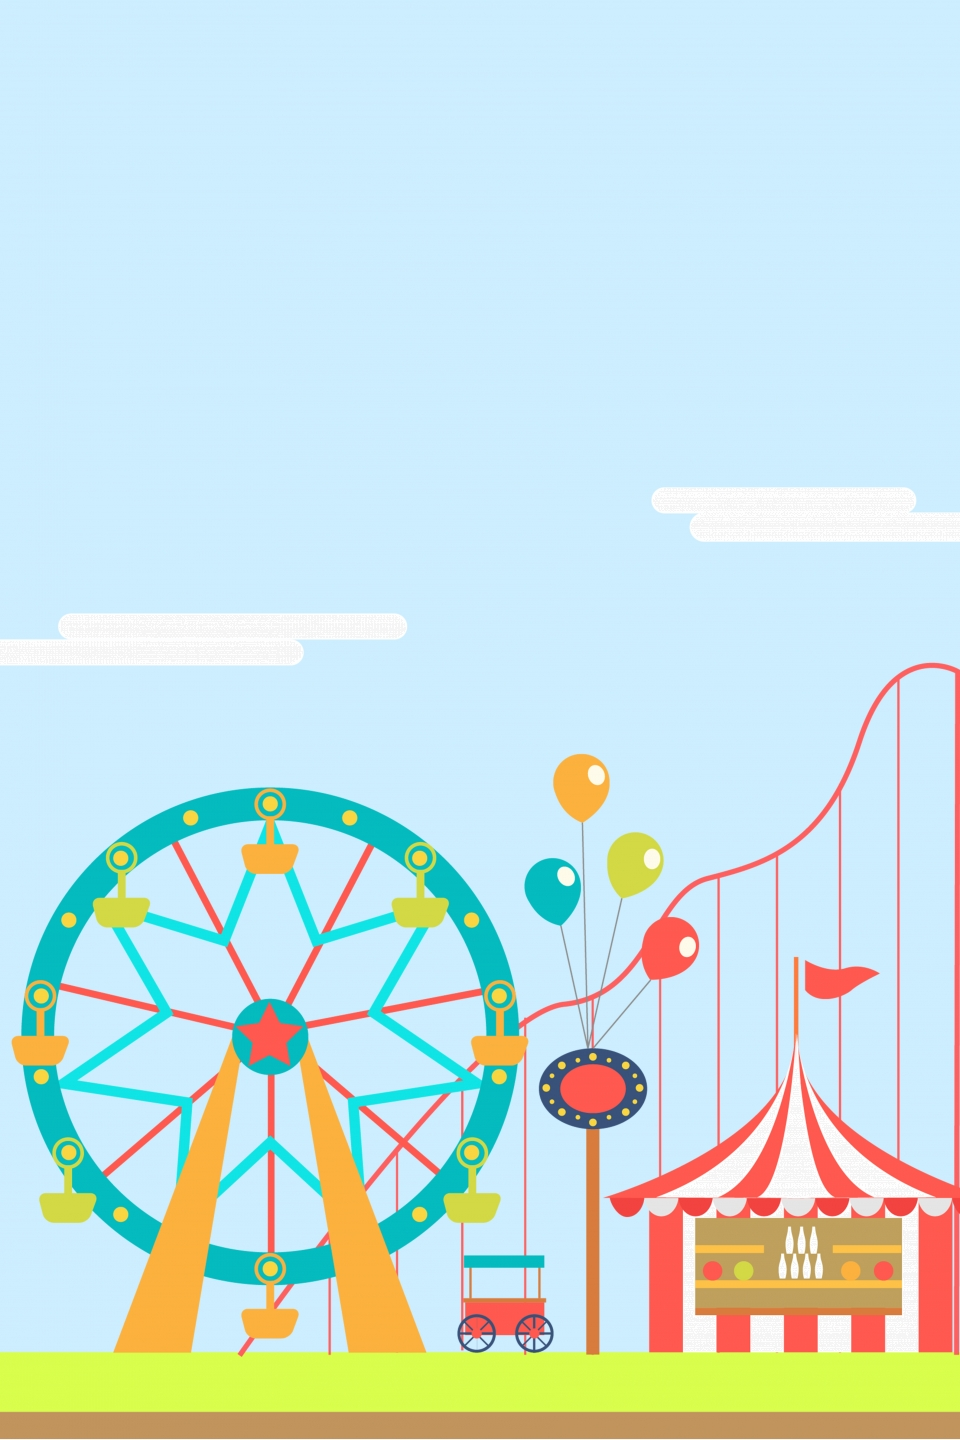
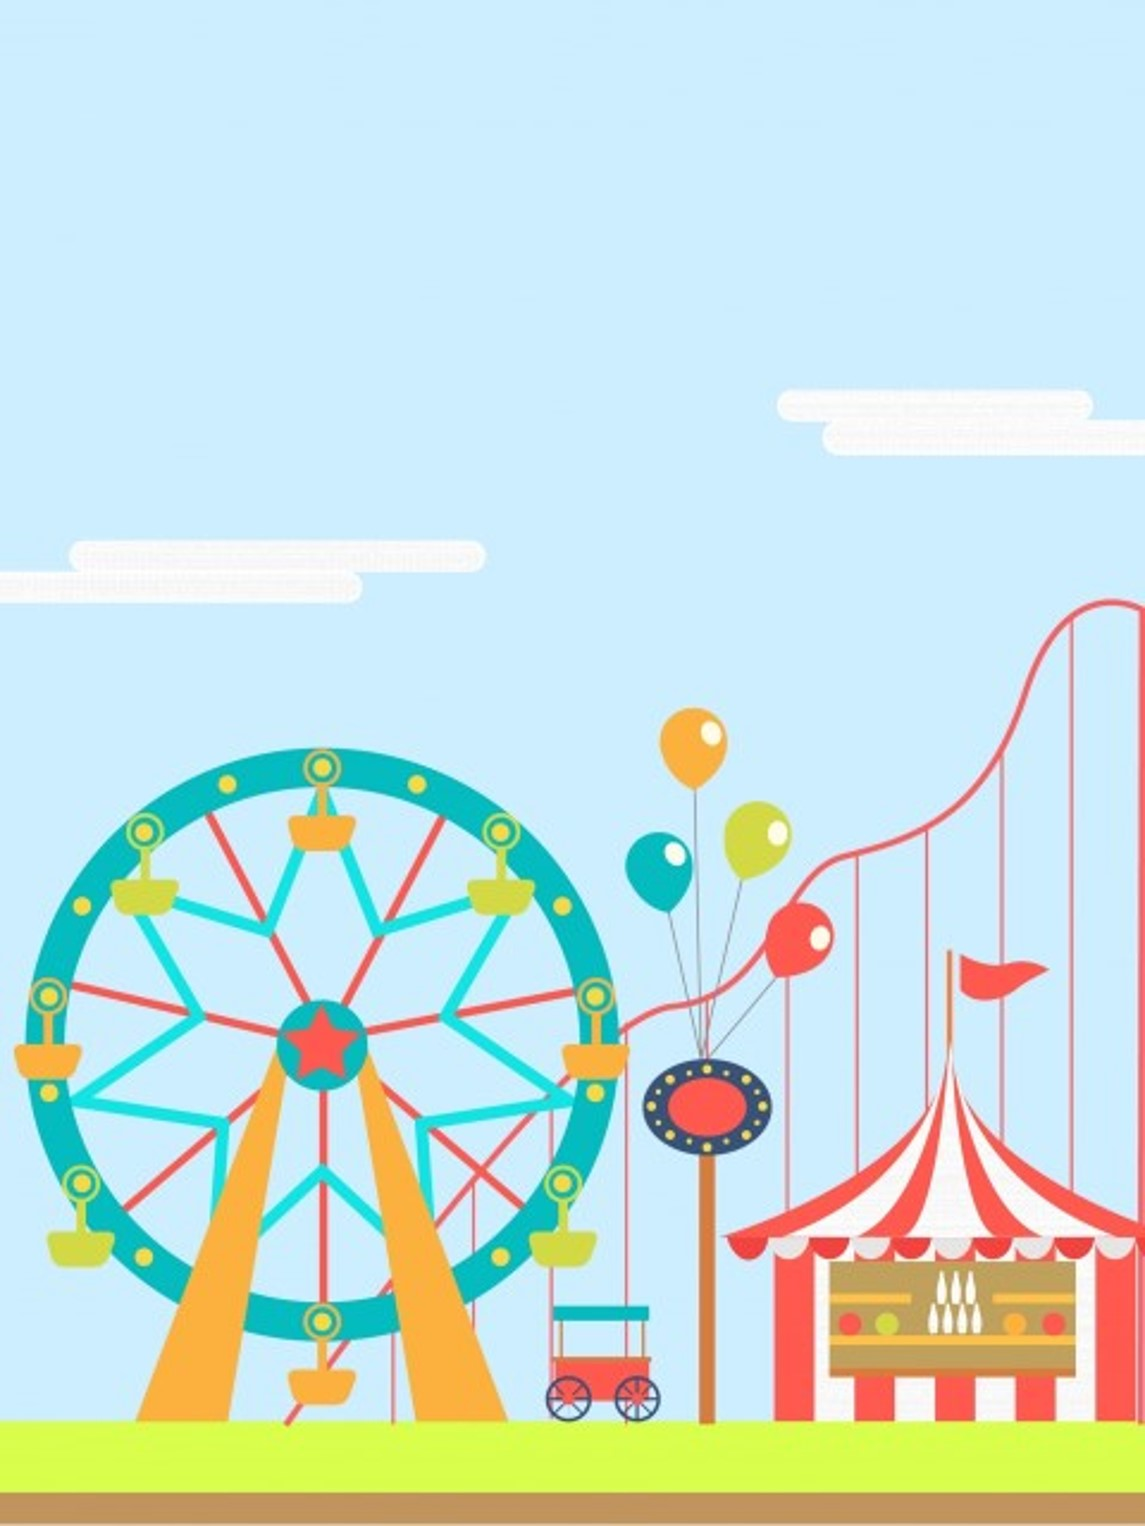
切換遊戲模式背景微調

Changed region(s): [[0.0, 0.25, 1.0, 0.9375], [0.0, 0.9688, 1.0, 1.0]]

diff --git a/chatbot_new/static/js/QA_scripts.js b/chatbot_new/static/js/QA_scripts.js
@@ -543,16 +543,23 @@ function analyze_responseData(){
 	 //存在問答遊戲模式，切換遊戲背景
 	if(res_data["session"]["params"].hasOwnProperty("game_mode")){
 		console.log("以選擇問答遊戲模式:"+res_data["session"]["params"]["game_mode"]+"，切換遊戲背景");
-		Background_Img = ''
+		Background_Img = '';
 		Background_Style = '';
+		Mode_Words = '';
+		WordBG_color = ''
 		if (res_data["session"]["params"]["game_mode"] == "訓練場"){
-			Background_Img = TrainingRoom_ImageUrl
+			Background_Img = TrainingRoom_ImageUrl;
+			WordBG_color = "#302b40";
 		}
 		else if (res_data["session"]["params"]["game_mode"] == "競技場"){
-			Background_Img = PlayingRoom_ImageUrl
+			Background_Img = PlayingRoom_ImageUrl;
+			WordBG_color = "#00bfbe";
 		}
-		Background_Style = 'style = "position:absolute; width: 100%; height: 100%; top: 0; left: 0; background-position: bottom center; background-repeat: no-repeat; background-image: url('+ Background_Img +');"'
-		ModeBackground.innerHTML = '<div class="mode_background" id="mode_background" ' + Background_Style + '></div>'
+		Mode_Words = '<div style="width: 160px; height: 40px; padding: 10px 10px; font-size: 30px; font-family: 微軟正黑體; font-weight: bold; color: white; text-align: center; border-radius: 20px; background-color: ' + WordBG_color + ';">'
+						+ res_data["session"]["params"]["game_mode"]
+						+ '</div>';
+		Background_Style = 'style = "width: 720px; height: 950px; margin: 0px; background-position: bottom center; background-repeat: no-repeat; background-size: contain; background-image: url('+ Background_Img +');"'
+		ModeBackground.innerHTML = '<div ' + Background_Style + '><center>' + Mode_Words + '</center></div>';
 		console.log(ModeBackground);
 	}
 
